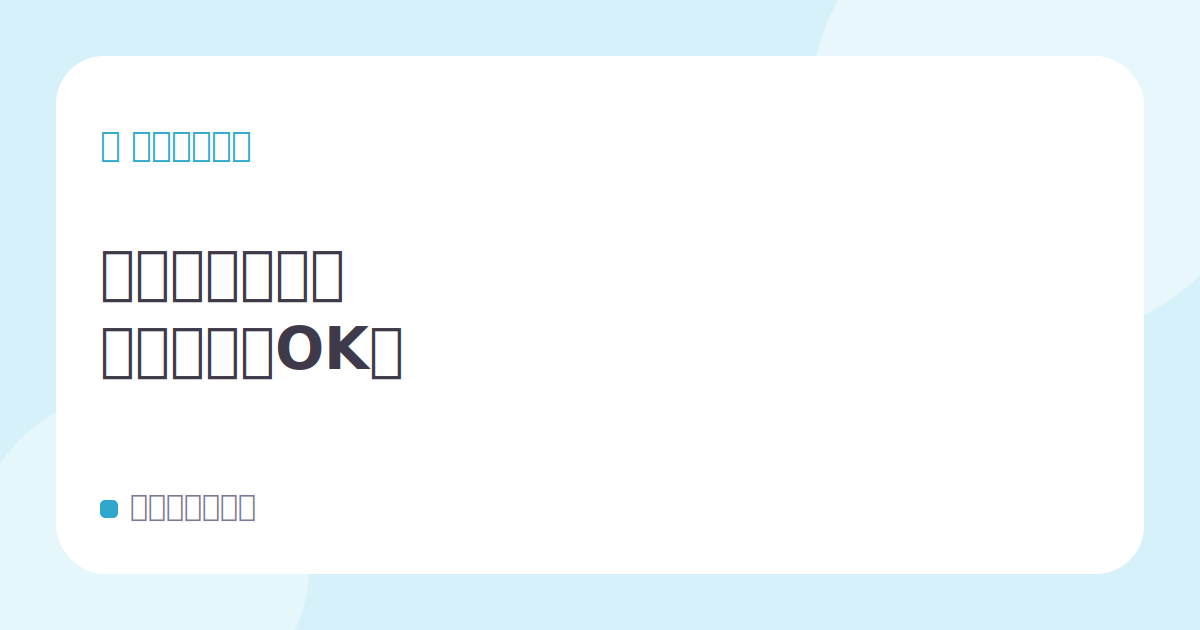
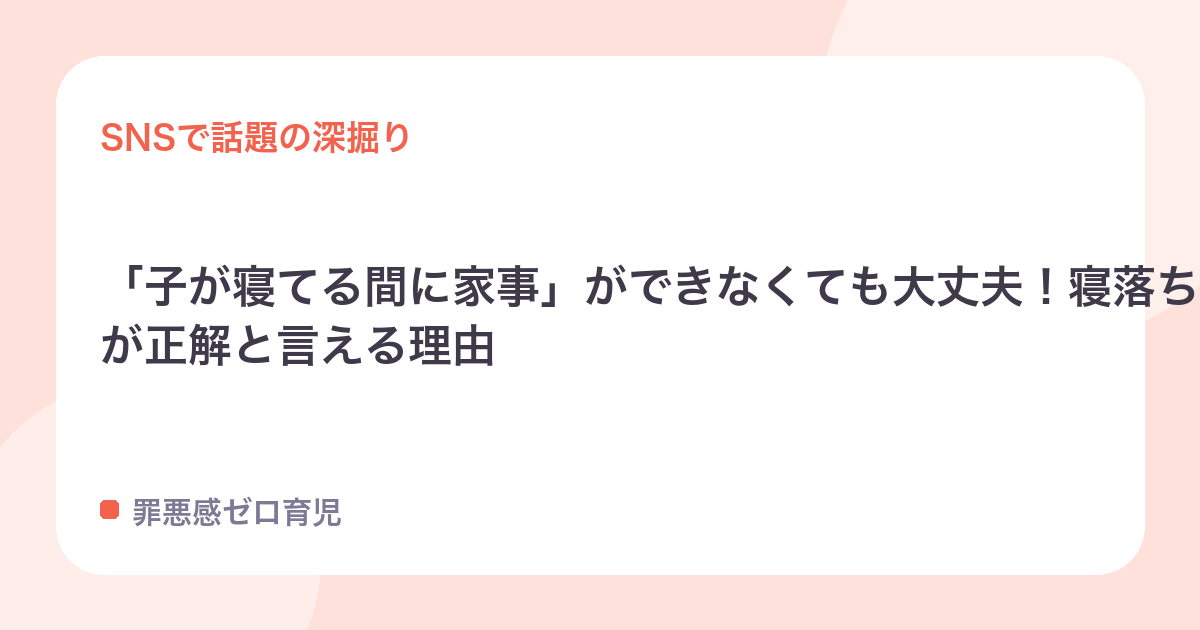
fix(thumb): デザインカードの日本語が豆腐になる問題を修正 — cairosvg をやめ Pillow で直接描画
- cairosvg は CJK フォントのフォールバックが弱く、fonts-noto-cjk 導入済みでも □□□ になっていた
- thumbnail.py: Pillow + 実在の CJK フォント（CI=Noto Sans CJK / mac=ヒラギノ）でカードを PNG 直描き。SVG中間生成を廃止
- 既存5枚のカードを描き直し（旧 .svg は削除）
- requirements: cairosvg → Pillow / daily.yml: libcairo2 不要に（fonts-noto-cjk は継続）
- pipeline preflight の依存チェックも PIL に

Changed region(s): [[0.0, 0.0, 1.0, 1.0]]

diff --git a/scripts/gen/thumbnail.py b/scripts/gen/thumbnail.py
@@ -1,6 +1,6 @@
 from __future__ import annotations
 
-import html
+import glob
 import json
 import os
 import urllib.parse
@@ -9,11 +9,54 @@ import urllib.request
 from .llm import generate, is_mock
 from .util import THUMBS, append_credit, log
 
+# カテゴリ色（site.ts と対応）
 _BG = {"sun": "#FFEFC9", "grape": "#EBE2FA", "coral": "#FFE1DB", "mint": "#D5F4E8", "sky": "#D6F1FA"}
 _INK = {"sun": "#F0A81F", "grape": "#9678CC", "coral": "#F2624D", "mint": "#3EB587", "sky": "#2FA7CC"}
-_FONT = "'Zen Maru Gothic','Noto Sans CJK JP','Hiragino Maru Gothic ProN',sans-serif"
+_HEAD = "#3F3A4A"
+_SITE = "#7E7994"
+
+# CJK が確実に出るフォントを探す（cairosvg は CJK フォールバックが弱く豆腐になるため Pillow で描く）
+_FONT_CANDIDATES = [
+    os.environ.get("KZI_CARD_FONT", ""),
+    # CI (ubuntu, fonts-noto-cjk)
+    "/usr/share/fonts/opentype/noto/NotoSansCJK-Bold.ttc",
+    "/usr/share/fonts/opentype/noto/NotoSansCJK-Regular.ttc",
+    "/usr/share/fonts/opentype/noto/NotoSansCJKjp-Regular.otf",
+    "/usr/share/fonts/truetype/noto/NotoSansCJK-Regular.ttc",
+    # macOS
+    "/System/Library/Fonts/ヒラギノ角ゴシック W6.ttc",
+    "/System/Library/Fonts/ヒラギノ角ゴシック W3.ttc",
+    "/System/Library/Fonts/Hiragino Sans GB.ttc",
+    "/Library/Fonts/Arial Unicode.ttf",
+    "/System/Library/Fonts/Supplemental/Arial Unicode.ttf",
+]
 
 
+def _font_path() -> str | None:
+    for p in _FONT_CANDIDATES:
+        if p and os.path.exists(p):
+            return p
+    for pat in ("/usr/share/fonts/**/*NotoSansCJK*", "/usr/share/fonts/**/*NotoSerifCJK*"):
+        hits = glob.glob(pat, recursive=True)
+        if hits:
+            return sorted(hits)[0]
+    return None
+
+
+def _font(size: int):
+    from PIL import ImageFont
+
+    p = _font_path()
+    if not p:
+        log("  サムネ: CJK フォントが見つからず既定フォント（豆腐の可能性）")
+        return ImageFont.load_default()
+    try:
+        return ImageFont.truetype(p, size)
+    except Exception:  # noqa: BLE001
+        return ImageFont.truetype(p, size, index=0)
+
+
+# ---------------------------------------------------------------- 見出しの折り返し
 def _greedy_wrap(text: str, n: int, max_lines: int = 3) -> list[str]:
     prefer = set("、。，．・！？!?」』）)")
     lines: list[str] = []
@@ -30,7 +73,7 @@ def _greedy_wrap(text: str, n: int, max_lines: int = 3) -> list[str]:
     if cur and len(lines) < max_lines:
         lines.append(cur.strip())
         cur = ""
-    if i < len(text):  # 行数が足りない → 最終行を省略記号で締める
+    if i < len(text):
         rest = (cur + text[i:]).strip()
         if lines:
             lines[-1] = (lines[-1] + rest)[: n - 1].rstrip() + "…"
@@ -40,7 +83,6 @@ def _greedy_wrap(text: str, n: int, max_lines: int = 3) -> list[str]:
 
 
 def _balance2(text: str) -> list[str]:
-    """長い1行を、中央付近の切れ目で2行に割る。"""
     mid = len(text) // 2
     good = set("、。，・！？!?」』）)")
     particle = set("はがをにでとへやもの")
@@ -52,72 +94,80 @@ def _balance2(text: str) -> list[str]:
 
 
 def _layout(headline: str) -> tuple[list[str], int]:
-    """カード幅に収まる行数・フォントサイズを選ぶ。"""
     text = headline.replace("\n", " ").strip()
     for chars, fs in ((14, 66), (16, 58), (19, 52), (23, 44)):
         lines = _greedy_wrap(text, chars, max_lines=3)
         if lines and max(len(ln) for ln in lines) <= chars + 1:
             if len(lines) == 1 and len(lines[0]) >= 15:
-                lines = _balance2(lines[0])
-                fs = 58
+                return _balance2(lines[0]), 58
             return lines, fs
     return _greedy_wrap(text, 23, max_lines=3), 44
 
 
-def build_svg(headline: str, sub: str, emoji: str, accent: str, site: str = "罪悪感ゼロ育児") -> str:
+# ---------------------------------------------------------------- カード描画（Pillow）
+def _render_card(slug: str, headline: str, sub: str, accent: str) -> str:
+    from PIL import Image, ImageDraw
+
     bg = _BG.get(accent, "#FFEFC9")
     ink = _INK.get(accent, "#F0A81F")
+    W, H = 1200, 630
+
+    img = Image.new("RGB", (W, H), bg)
+    d = ImageDraw.Draw(img, "RGBA")
+
+    d.ellipse((820, -120, 1280, 340), fill=(255, 255, 255, 115))
+    d.ellipse((-40, 380, 320, 740), fill=(255, 255, 255, 100))
+    d.rounded_rectangle((56, 56, 1144, 574), radius=48, fill="#FFFFFF")
+
+    d.text((100, 120), sub.strip(), font=_font(34), fill=ink)
+
     lines, fs = _layout(headline)
-    lh = int(fs * 1.34)
-    block_h = lh * (len(lines) - 1)
-    y0 = 330 - block_h // 2
-    tspans = "".join(
-        f'<tspan x="100" y="{y0 + i * lh}">{html.escape(ln)}</tspan>' for i, ln in enumerate(lines)
-    )
-    return f"""<svg xmlns="http://www.w3.org/2000/svg" width="1200" height="630" viewBox="0 0 1200 630">
-  <rect width="1200" height="630" fill="{bg}"/>
-  <circle cx="1040" cy="110" r="230" fill="#ffffff" opacity="0.45"/>
-  <circle cx="140" cy="560" r="170" fill="#ffffff" opacity="0.4"/>
-  <rect x="56" y="56" width="1088" height="518" rx="48" fill="#ffffff"/>
-  <text x="100" y="156" font-family="{_FONT}" font-size="34" fill="{ink}">{html.escape((emoji + '  ' + sub).strip())}</text>
-  <text font-family="{_FONT}" font-size="{fs}" font-weight="700" fill="#3F3A4A">{tspans}</text>
-  <rect x="100" y="500" width="18" height="18" rx="5" fill="{ink}"/>
-  <text x="130" y="516" font-family="{_FONT}" font-size="30" fill="#7E7994">{html.escape(site)}</text>
-</svg>"""
+    lh = int(fs * 1.36)
+    y = 315 - lh * (len(lines) - 1) // 2 - fs // 2
+    hf = _font(fs)
+    for ln in lines:
+        d.text((100, y), ln, font=hf, fill=_HEAD)
+        y += lh
+
+    d.rounded_rectangle((100, 500, 118, 518), radius=5, fill=ink)
+    d.text((132, 496), "罪悪感ゼロ育児", font=_font(30), fill=_SITE)
+
+    THUMBS.mkdir(parents=True, exist_ok=True)
+    out = THUMBS / f"{slug}.png"
+    img.save(out, "PNG")
+    return f"/images/thumb/{slug}.png"
 
 
 def _maybe_ai_headline(article_title: str) -> str | None:
-    """THUMB_HEADLINE=ai のとき、サムネ用に短い惹句を作る（任意）。"""
     if os.environ.get("THUMB_HEADLINE") != "ai" or is_mock():
         return None
     try:
-        h = generate(
-            "次の記事タイトルを、サムネイル用に12〜16字の短い惹句へ言い換えて。"
-            "煽らず、やさしく、肯定的に。1案だけ、記号なしで返す。\n\n" + article_title,
-            temperature=0.7,
-        ).strip().splitlines()[0][:20]
+        h = (
+            generate(
+                "次の記事タイトルを、サムネイル用に12〜16字の短い惹句へ言い換えて。"
+                "煽らず、やさしく、肯定的に。1案だけ、記号なしで返す。\n\n" + article_title,
+                temperature=0.7,
+            )
+            .strip()
+            .splitlines()[0][:20]
+        )
         return h or None
     except Exception as e:  # noqa: BLE001
         log(f"  サムネ惹句生成失敗（{e}）→ タイトルを使用")
         return None
 
 
+# ---------------------------------------------------------------- 写真（Unsplash）
 _UNSPLASH_API = "https://api.unsplash.com/search/photos"
 _UA = "kzi-bot/1.0 (+https://zaiaku-zero-ikuji.pages.dev)"
 
 
 def _unsplash_photo(query: str) -> dict | None:
-    """UNSPLASH_ACCESS_KEY があれば、クエリに合う横長写真を1枚返す。"""
     key = os.environ.get("UNSPLASH_ACCESS_KEY")
     if not key or not query or is_mock():
         return None
     qs = urllib.parse.urlencode(
-        {
-            "query": query,
-            "orientation": "landscape",
-            "content_filter": "high",
-            "per_page": "8",
-        }
+        {"query": query, "orientation": "landscape", "content_filter": "high", "per_page": "8"}
     )
     req = urllib.request.Request(
         f"{_UNSPLASH_API}?{qs}",
@@ -168,9 +218,9 @@ def render(
     """記事のメイン画像を用意する。
 
     1. UNSPLASH_ACCESS_KEY + photo_query があれば、内容に合う写真をDLして heroImage に
-    2. 無ければ、カテゴリ色＋見出しの SVG カードを生成して heroImage / OGP 画像に
+    2. 無ければ「カテゴリ色＋見出し」のデザインカード（PNG）を Pillow で描く
     戻り値: {"heroImage": <path>, "ogImage": <path>}
-    ※ 絵文字だけのサムネは禁止。必ず写真かデザインカードを返す。
+    ※ 絵文字だけのサムネは出さない。必ず写真かカードを返す。
     """
     THUMBS.mkdir(parents=True, exist_ok=True)
 
@@ -185,21 +235,11 @@ def render(
             log(f"  photo: public/images/thumb/{slug}.jpg  by {photo['credit_name']} (Unsplash)")
             return {"heroImage": f"/images/thumb/{slug}.jpg", "ogImage": f"/images/thumb/{slug}.jpg"}
 
-    # フォールバック：SVG カード
     headline = _maybe_ai_headline(headline) or headline
-    svg = build_svg(headline, sub, emoji, accent)
-    (THUMBS / f"{slug}.svg").write_text(svg, encoding="utf-8")
     try:
-        import cairosvg
-
-        cairosvg.svg2png(
-            bytestring=svg.encode("utf-8"),
-            write_to=str(THUMBS / f"{slug}.png"),
-            output_width=1200,
-            output_height=630,
-        )
+        path = _render_card(slug, headline, sub, accent)
         log(f"  thumbnail(card): public/images/thumb/{slug}.png")
-        return {"heroImage": f"/images/thumb/{slug}.png", "ogImage": f"/images/thumb/{slug}.png"}
+        return {"heroImage": path, "ogImage": path}
     except Exception as e:  # noqa: BLE001
-        log(f"  cairosvg 未導入/失敗（{e}）→ SVG カードを heroImage/OGP に使用")
-        return {"heroImage": f"/images/thumb/{slug}.svg", "ogImage": f"/images/thumb/{slug}.svg"}
+        log(f"  カード生成失敗（{e}）")
+        raise

diff --git a/scripts/pipeline.py b/scripts/pipeline.py
@@ -154,7 +154,7 @@ def preflight() -> dict:
     key = bool(os.environ.get("GEMINI_API_KEY"))
     checks.append(("GEMINI_API_KEY", key, "未設定：.env か環境変数に入れると本番モードになる"))
 
-    for mod in ("yaml", "trafilatura", "cairosvg"):
+    for mod in ("yaml", "trafilatura", "PIL"):
         try:
             importlib.import_module(mod)
             ok = True
